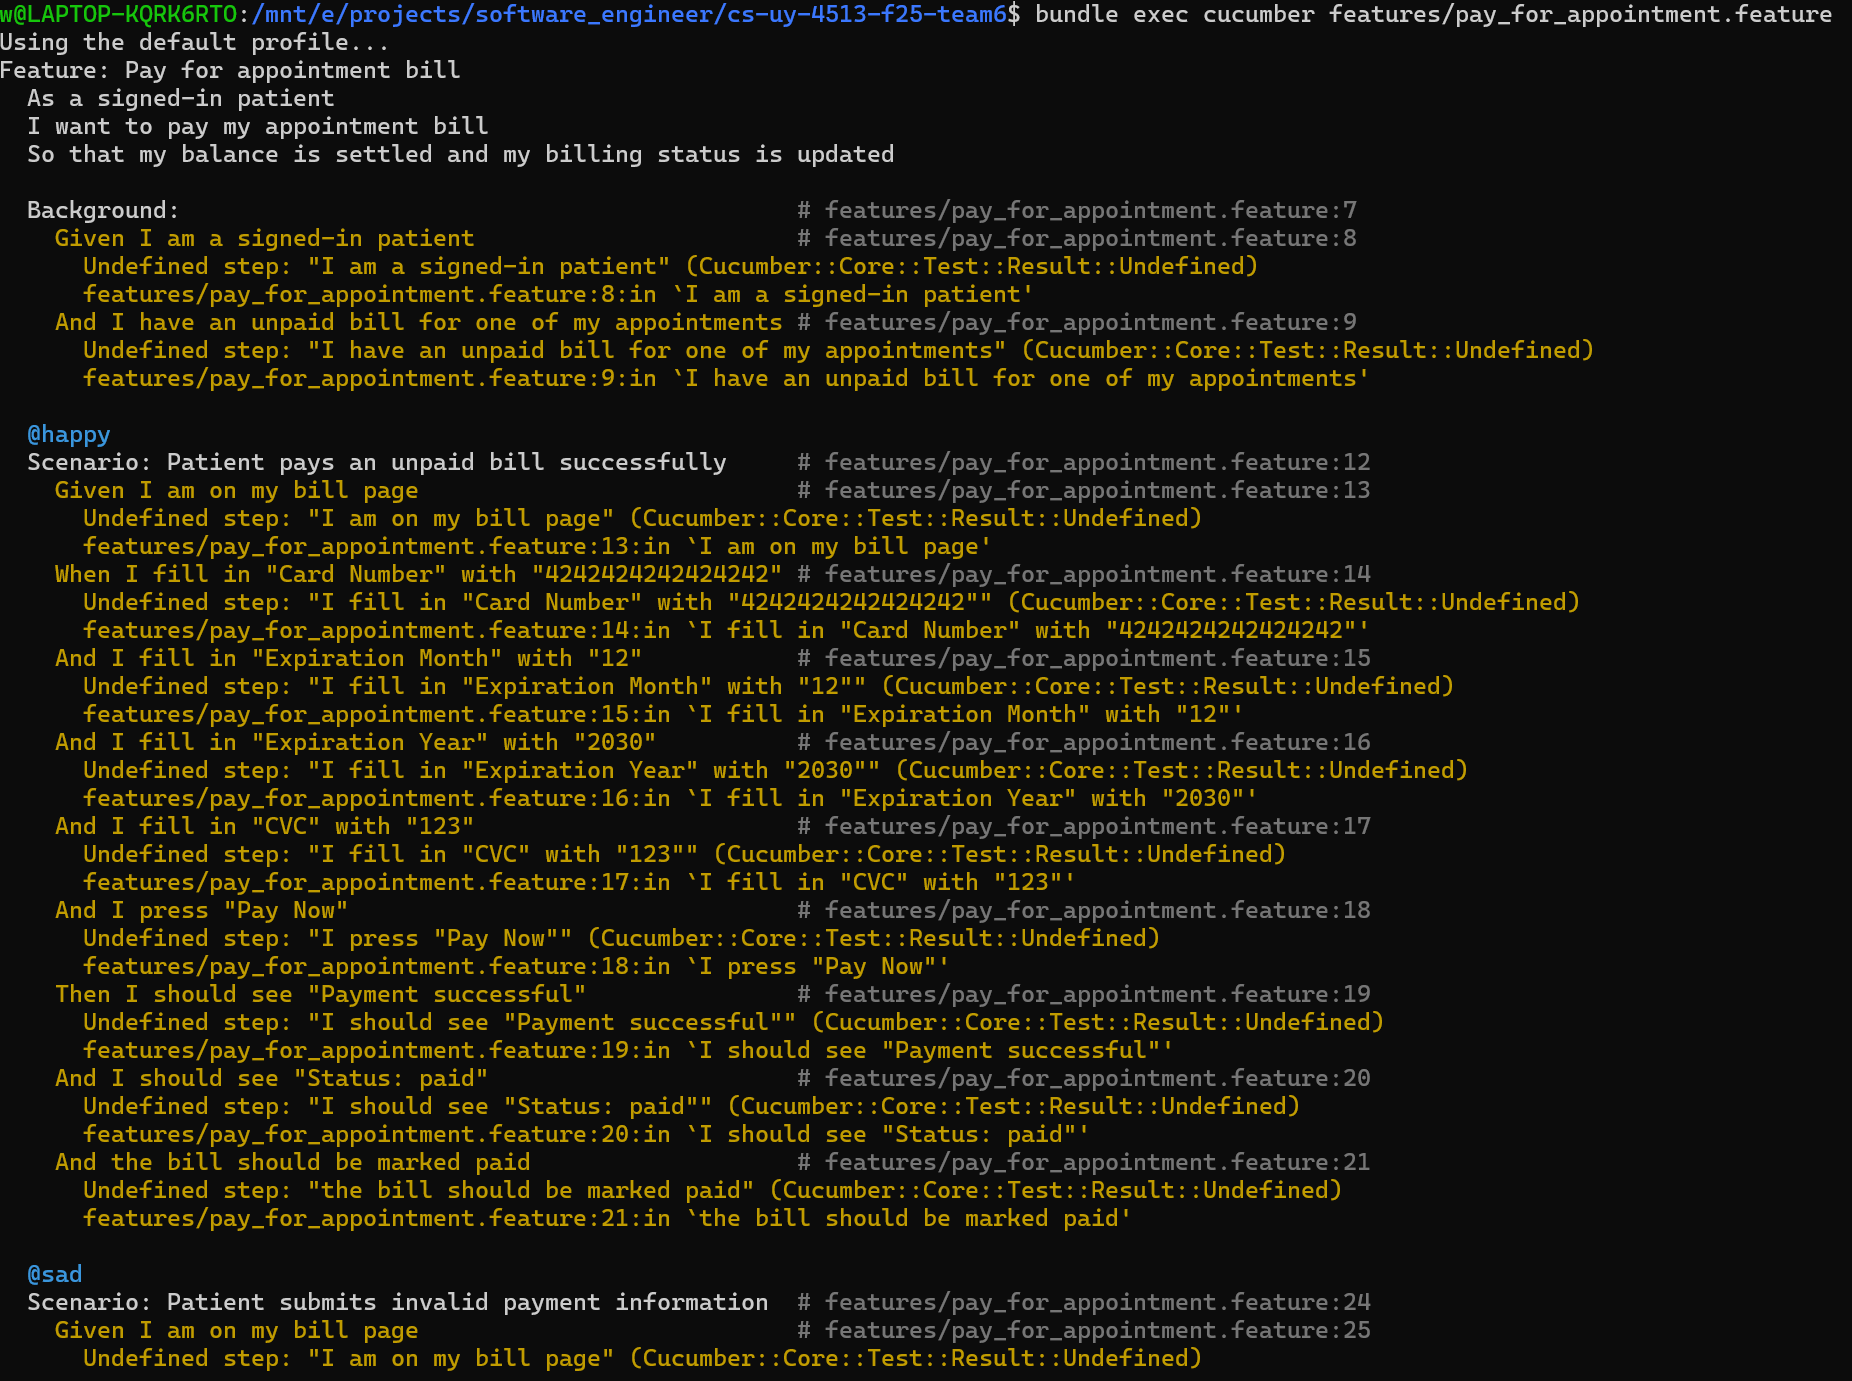
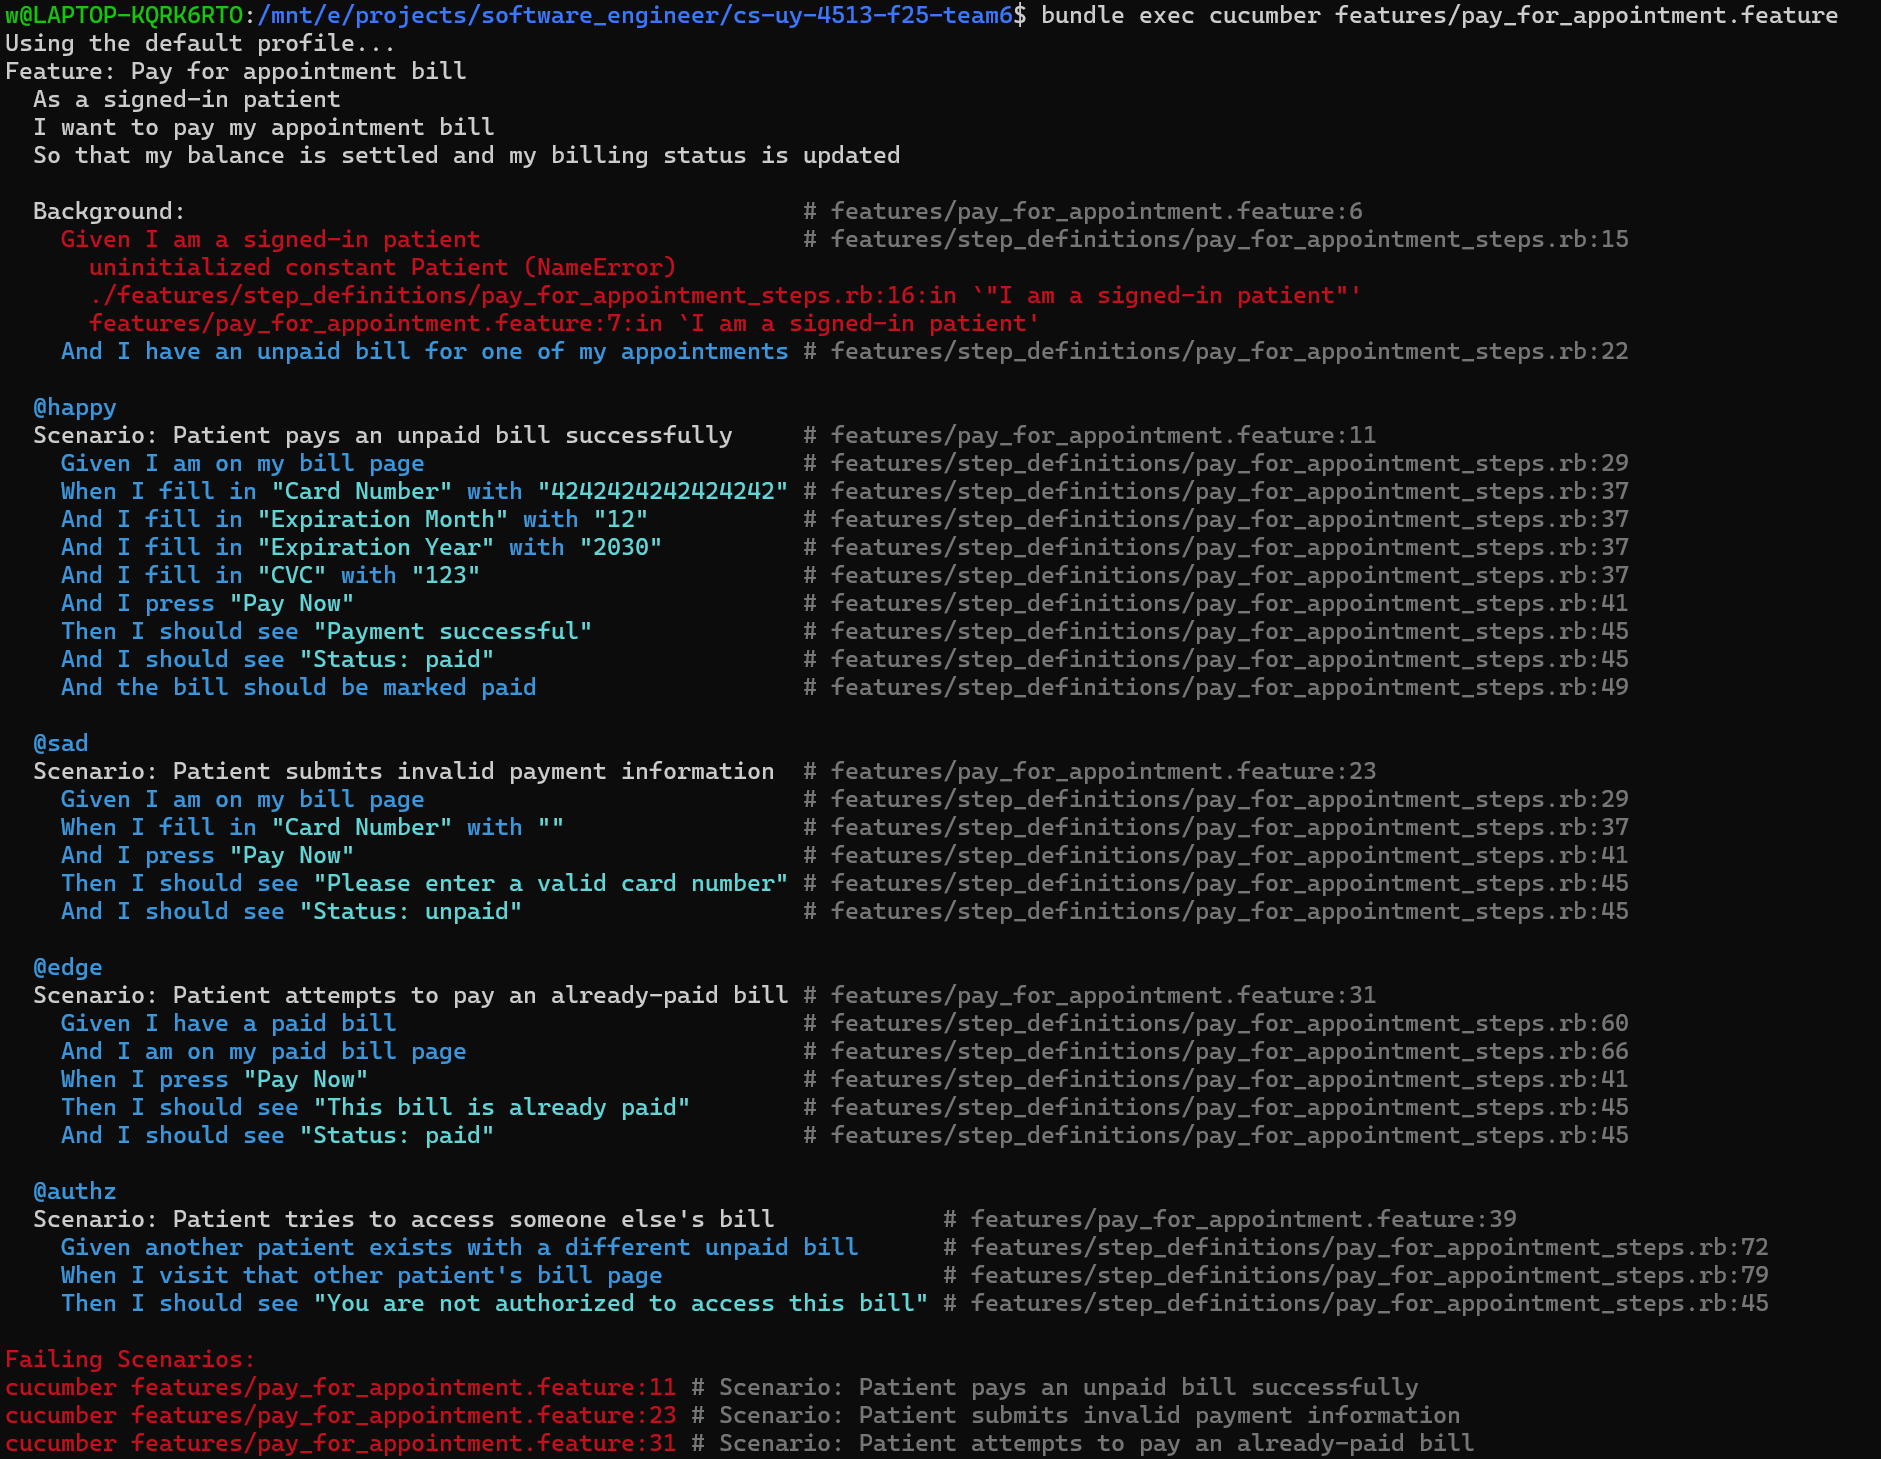
Fix

Changed region(s): [[0.0, 0.0, 0.9849, 0.9964]]

diff --git a/features/step_definitions/pay_for_appointment_steps.rb b/features/step_definitions/pay_for_appointment_steps.rb
@@ -6,16 +6,13 @@ def sign_in_user(user)
 end
 
 def patient_billing_show_path_for(bill)
-  # Prefer a route helper if you’ve defined one:
-  # patient_billing_path(bill) or bill_path(bill)
-  # Fallback to a hardcoded path if your project spec uses this URI:
-  "/patient/billing/#{bill.id}"
+  "/patient/billing/#{bill}"
 end
 
 Given('I am a signed-in patient') do
   @patient ||= Patient.create!(email: "pat@example.com", password: "password")
   sign_in_user(@patient)
-  # Optional sanity check:
+  # Sanity check:
   expect(page).to have_content("Signed in").or have_current_path(root_path, ignore_query: true)
 end
 
@@ -29,8 +26,6 @@ end
 Given('I am on my bill page') do
   raise "No @bill set. Did you call the unpaid bill step?" unless @bill
   visit patient_billing_show_path_for(@bill)
-  # Keep this generic; the page may not exist yet (that's OK for RED)
-  # If it exists, these hints help catch regressions:
   expect(page.status_code).to be_between(200, 399).inclusive rescue nil
 end
 
